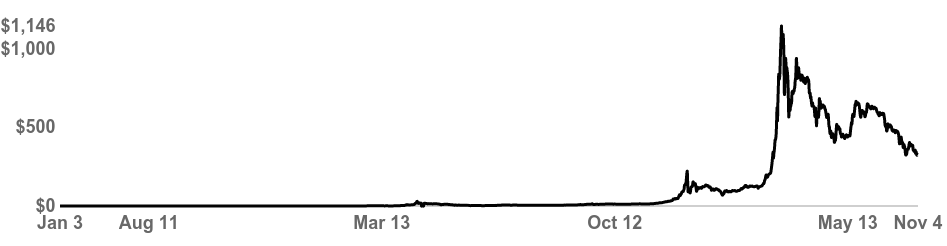
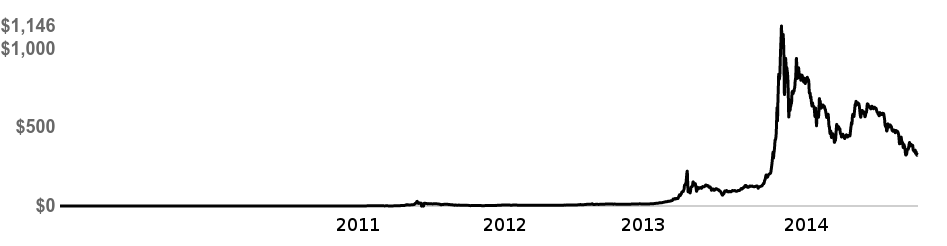
Update some slides (price, transactions,...)

diff --git a/index.html b/index.html
@@ -233,24 +233,24 @@
         <figcaption><a href="https://en.wikipedia.org/wiki/Cryptocurrency">Wikipedia</a></figcaption>
         </figure>
     </div></section>
-    <section class="slide price"><div>
+    <section class="slide prices"><div>
         <style>
-            .slide.price img { margin-top: 80px; }
-            .slide.price figcaption { text-align: center; }
+            .slide.prices img { margin-top: 80px; }
+            .slide.prices figcaption { text-align: center; }
         </style>
-        <h2 data-l10n-id="price-title"></h2>
+        <h2 data-l10n-id="prices-title"></h2>
         <figure>
             <img src="./pictures/prices.png">
             <figcaption><small><a href="https://www.coinbase.com/charts">https://www.coinbase.com/charts</a></small></figcaption>
         </figure>
     </div></section>
-    <section class="slide transaction"><div>
+    <section class="slide transactions"><div>
         <style>
-            .slide.transaction figure { width: 100%; }
-            .slide.transaction img { max-height: 400px; display: block; margin: auto; }
-            .slide.transaction figcaption { text-align: center; }
+            .slide.transactions figure { width: 100%; }
+            .slide.transactions img { max-height: 400px; display: block; margin: auto; }
+            .slide.transactions figcaption { text-align: center; }
         </style>
-        <h2 data-l10n-id="transaction-title"></h2>
+        <h2 data-l10n-id="transactions-title"></h2>
         <figure>
         <img src="./pictures/transactions.png">
         <figcaption><small><a href="https://www.coinbase.com/charts">https://www.coinbase.com/charts</a></small></figcaption>
@@ -752,9 +752,9 @@
     </style>
     <section class="slide blockchain"><div>
         <style>
-            .slide.blockchain figure blockchain-element.double          { position: absolute; display: block; top: 340px; left: 462px; }
+            .slide.blockchain figure blockchain-element.double          { position: absolute; display: block; top: 344px; left: 468px; }
             .slide.blockchain figure blockchain-element.double:before   { top: -115px; right: 0;}
-            .slide.blockchain figure .cross { position: absolute; top: 214px; left: 489px; color: red; font-size: 200px;}
+            .slide.blockchain figure .cross { position: absolute; top: 230px; left: 499px; color: red; font-size: 200px;}
         </style>
         <h2 data-l10n-id="blockchain-title"></h2>
         <figure>
@@ -1212,7 +1212,7 @@
             <li>JavaScript : <a href="https://github.com/defunctzombie/bitcoin-address" data-l10n-id=dev-validation></a>, <a href="http://miohtama.github.io/bitcoin-prices/">bitcoinprices.js</a>, <a href="http://bitcoinjs.org/">bitcoinjs</a>, <a href="https://npmjs.org/package/bitcoin">node-bitcoin</a>,
             <li><span data-l10n-id="dev-miner"></span> : <a href="http://www.bitcoinplus.com/miner/embeddable">bitcoinplus</a>, <a href="https://code.google.com/p/hamiyoca/">hamiyoca</a> (WebWorker, WebGL),
             <li><span data-l10n-id="dev-blockchain"></span> : <a href="https://blockchain.info/">blockchain.info</a>, <a href="https://blockexplorer.com/">block explorer</a>,
-            <li><span data-l10n-id="dev-tools"></span> : <a href="https://www.bitaddress.org">bitaddress.org</a>, <a href="http://brainwallet.org">Brainwallet.org</a>, <a href="http://gobittest.appspot.com/">TP’s Go Bitcoin Tests</a>.
+            <li><span data-l10n-id="dev-tools"></span> : <a href="http://bitcore.io/playground/">bitcore.io/playground/</a>, <a href="https://www.bitaddress.org">bitaddress.org</a>, <a href="http://brainwallet.org">Brainwallet.org</a>, <a href="http://gobittest.appspot.com/">TP’s Go Bitcoin Tests</a>.
         </ul>
     </div></section>
     <section class="slide cover title"><div>
